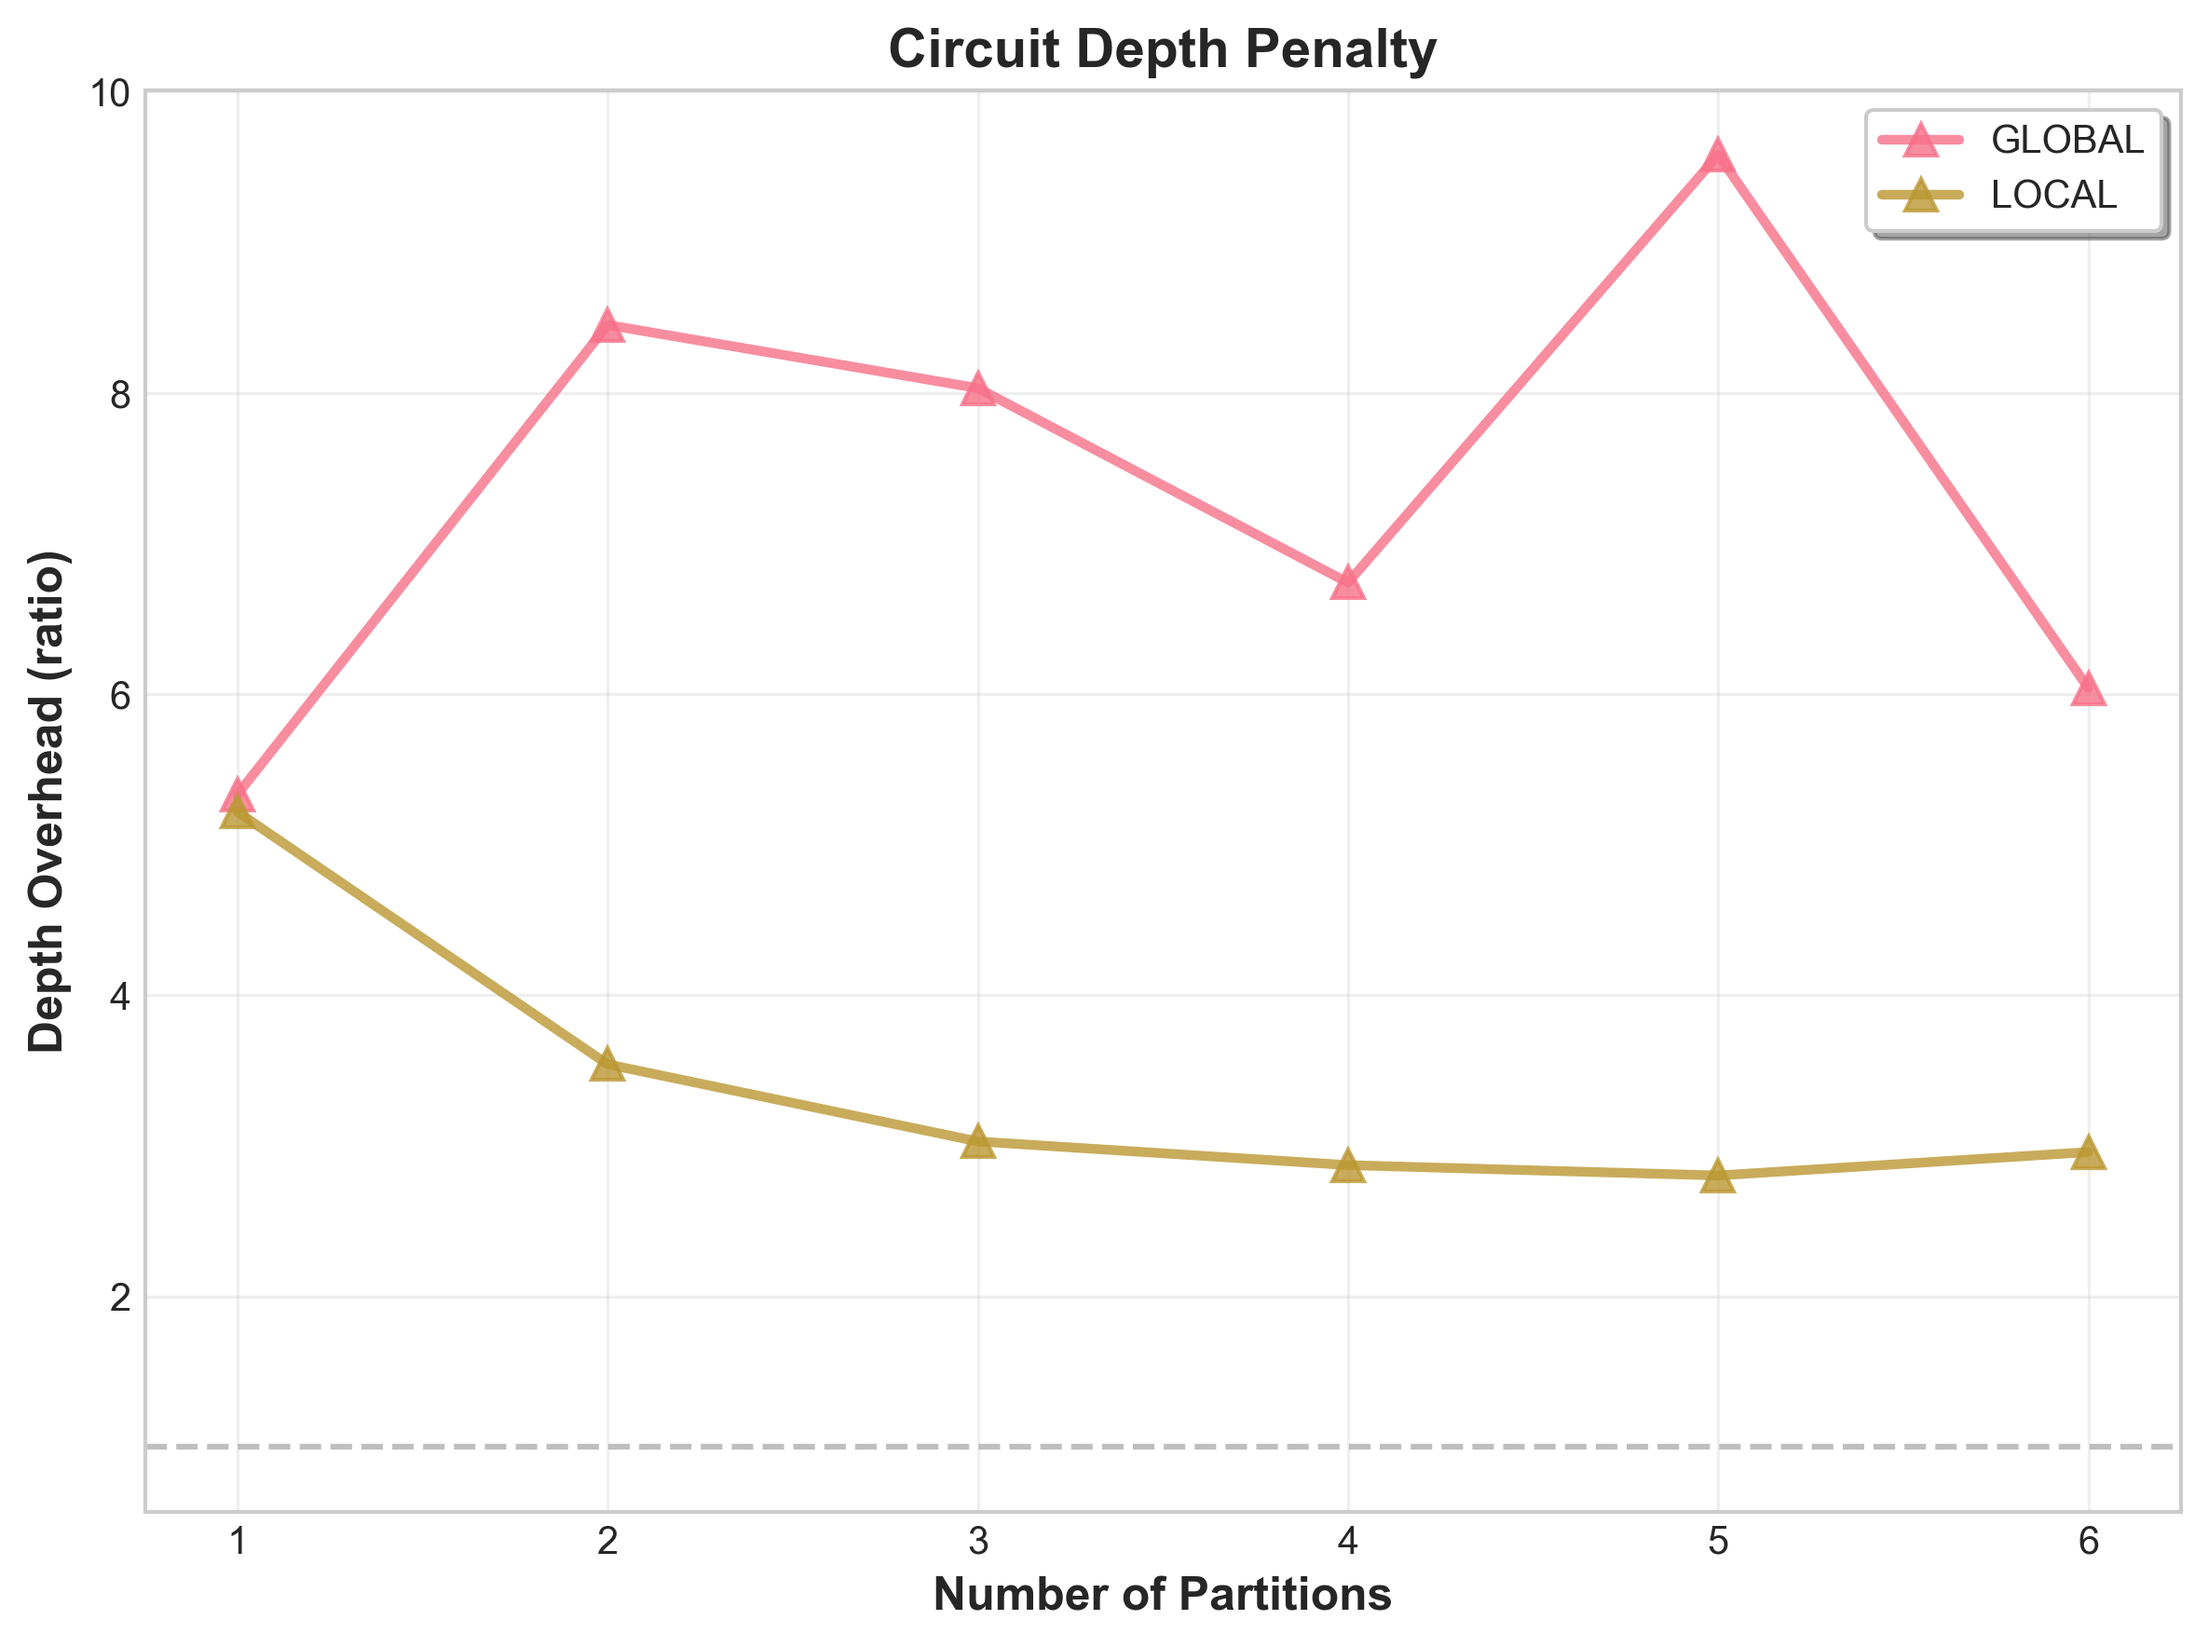
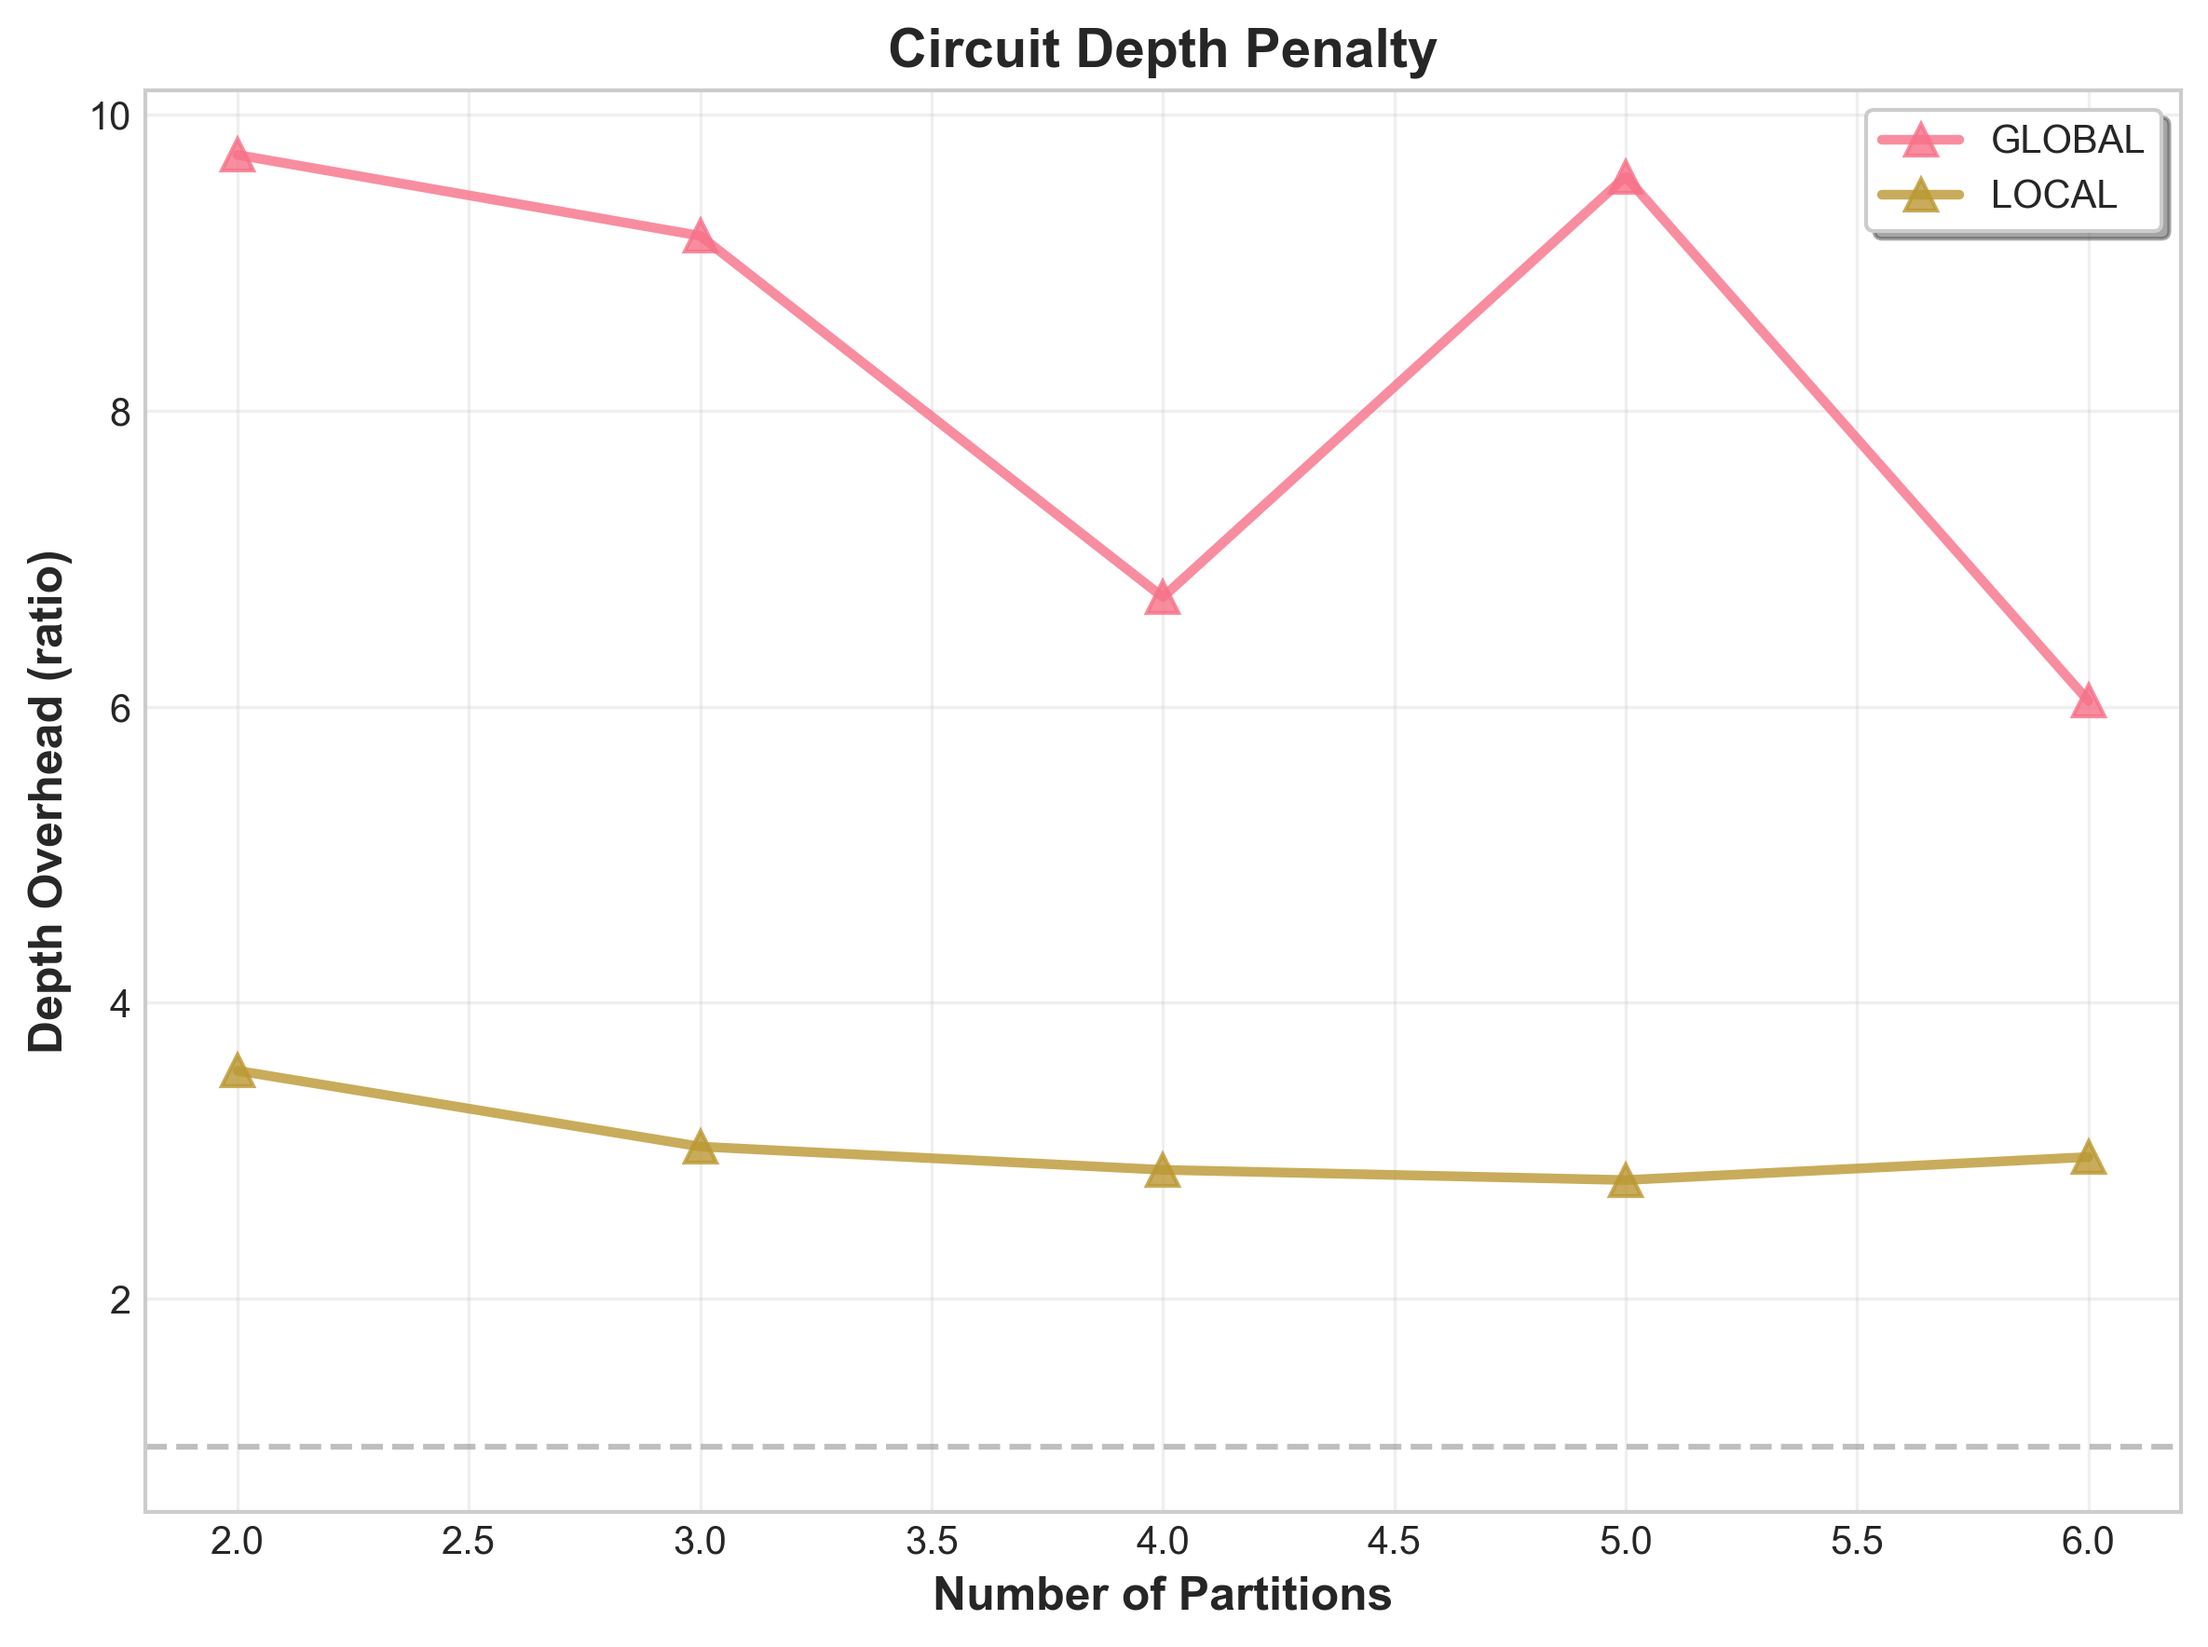
updated figs

diff --git a/new_files/analyze_results.py b/new_files/analyze_results.py
@@ -2,7 +2,13 @@
 ZNE Distributed Quantum Computing Analysis
 Analyzes results from main_reduced.ipynb experiments
 
-Usage: python quick_ploys.py ../results.csv
+IMPORTANT: This script filters out partition=1 data from main analysis.
+- Partition=1 means NO distribution (circuit runs as single unit)
+- All strategies should be identical at partition=1
+- Communication parameters have no effect at partition=1
+- See fig0_baseline_validation_partition1.png to verify partition=1 behavior
+
+Usage: python analyze_results.py ../results.csv
 """
 
 import pandas as pd
@@ -27,6 +33,43 @@ def print_section(title):
     print("\n" + "="*80)
     print(f"  {title}")
     print("="*80)
+
+def filter_distributed_data(df, keep_baseline=False):
+    """
+    Filter out partition=1 data (no distribution) from analysis.
+    
+    When partition=1, there is NO distribution - the circuit runs as a single unit.
+    This means all strategies (global/local/no-ZNE) should produce identical results,
+    and communication parameters (primitive, noise multiplier) have no effect.
+    
+    Args:
+        df: DataFrame with experimental results
+        keep_baseline: If True, return both filtered data and baseline separately
+    
+    Returns:
+        df_distributed: Data with partition > 1 (actual distributed execution)
+        df_baseline: Data with partition = 1 (optional, only if keep_baseline=True)
+    """
+    if 'num_partitions_tested' not in df.columns:
+        print("⚠ Warning: 'num_partitions_tested' column not found, skipping filter")
+        return (df, pd.DataFrame()) if keep_baseline else df
+    
+    partition_1_count = (df['num_partitions_tested'] == 1).sum()
+    total_count = len(df)
+    
+    if partition_1_count > 0:
+        print(f"\n--- Filtering Partition Data ---")
+        print(f"  Partition = 1 (no distribution): {partition_1_count} experiments ({partition_1_count/total_count*100:.1f}%)")
+        print(f"  Partition > 1 (distributed): {total_count - partition_1_count} experiments ({(total_count-partition_1_count)/total_count*100:.1f}%)")
+        print(f"  → Excluding partition=1 from main analysis (no distribution occurs)")
+        print(f"  → All strategies should be identical at partition=1")
+    
+    df_baseline = df[df['num_partitions_tested'] == 1].copy() if keep_baseline else pd.DataFrame()
+    df_distributed = df[df['num_partitions_tested'] > 1].copy()
+    
+    if keep_baseline:
+        return df_distributed, df_baseline
+    return df_distributed
 
 def load_and_clean_data(filepath):
     """Load and clean the experimental data"""
@@ -103,9 +146,93 @@ def load_and_clean_data(filepath):
         df['network_noise_injected'] = df['num_partitions_tested'] * df['communication_noise_multiplier']
     
     print(f"\n✓ Data cleaned and augmented")
-    print(f"  Final dataset: {len(df)} experiments")
+    print(f"  Dataset before partition filter: {len(df)} experiments")
+    
+    # Filter out partition=1 data (no distribution occurs)
+    df = filter_distributed_data(df, keep_baseline=False)
+    
+    print(f"  Final dataset: {len(df)} experiments (partition > 1 only)")
     
     return df
+
+def plot_baseline_validation(df_full, output_dir='figures'):
+    """
+    Create validation plot comparing partition=1 (baseline) vs partition>1.
+    This helps verify that partition=1 shows no strategy differences (as expected).
+    """
+    print_section("BASELINE VALIDATION (Partition=1 Check)")
+    
+    if 'num_partitions_tested' not in df_full.columns:
+        print("⚠ Skipping: 'num_partitions_tested' column not found")
+        return
+    
+    df_baseline = df_full[df_full['num_partitions_tested'] == 1].copy()
+    
+    if len(df_baseline) == 0:
+        print("⚠ No partition=1 data found, skipping baseline validation")
+        return
+    
+    Path(output_dir).mkdir(exist_ok=True)
+    
+    # Check if strategies differ at partition=1 (they shouldn't!)
+    print(f"\n--- Partition=1 Strategy Comparison ---")
+    if 'strategy' in df_baseline.columns:
+        baseline_stats = df_baseline.groupby('strategy')['error_reduction'].agg(['mean', 'std', 'count'])
+        print(baseline_stats)
+        
+        # Calculate variance between strategies
+        strategy_means = baseline_stats['mean'].values
+        if len(strategy_means) > 1:
+            variance = np.var(strategy_means)
+            print(f"\nVariance between strategies: {variance:.6f}")
+            if variance > 0.01:
+                print("⚠ WARNING: Strategies differ significantly at partition=1!")
+                print("   This suggests a bug - all strategies should be identical with no distribution.")
+            else:
+                print("✓ Good: Strategies are similar at partition=1 (as expected)")
+    
+    # Create comparison plot
+    fig, axes = plt.subplots(1, 2, figsize=(14, 6))
+    
+    # Left: Partition=1 by strategy
+    if 'strategy' in df_baseline.columns:
+        ax = axes[0]
+        strategies = sorted(df_baseline['strategy'].unique())
+        positions = np.arange(len(strategies))
+        
+        means = []
+        stds = []
+        for strategy in strategies:
+            data = df_baseline[df_baseline['strategy'] == strategy]['error_reduction']
+            means.append(data.mean())
+            stds.append(data.std())
+        
+        ax.bar(positions, means, yerr=stds, alpha=0.7, capsize=5)
+        ax.set_xticks(positions)
+        ax.set_xticklabels([s.upper() for s in strategies])
+        ax.set_ylabel('Error Reduction', fontsize=12, fontweight='bold')
+        ax.set_title('Partition=1: Strategy Comparison\n(Should be identical)', 
+                    fontsize=12, fontweight='bold')
+        ax.axhline(y=0, color='red', linestyle='--', alpha=0.5)
+        ax.grid(True, alpha=0.3, axis='y')
+    
+    # Right: Distribution of error reduction at partition=1
+    ax = axes[1]
+    ax.hist(df_baseline['error_reduction'], bins=20, alpha=0.7, edgecolor='black')
+    ax.axvline(df_baseline['error_reduction'].mean(), color='red', 
+              linestyle='--', linewidth=2, label=f"Mean: {df_baseline['error_reduction'].mean():.4f}")
+    ax.set_xlabel('Error Reduction', fontsize=12, fontweight='bold')
+    ax.set_ylabel('Frequency', fontsize=12, fontweight='bold')
+    ax.set_title('Partition=1: Error Reduction Distribution\n(No Distribution)', 
+                fontsize=12, fontweight='bold')
+    ax.legend()
+    ax.grid(True, alpha=0.3, axis='y')
+    
+    plt.tight_layout()
+    filepath = Path(output_dir) / 'fig0_baseline_validation_partition1.png'
+    plt.savefig(filepath, dpi=300, bbox_inches='tight')
+    print(f"\n✓ Saved: {filepath}")
+    plt.close()
 
 def plot_scalability(df, output_dir='figures'):
     """Create scalability analysis plots"""
@@ -467,8 +594,23 @@ def main():
     else:
         input_file = '../results.csv'
     
-    # Run analysis
+    # Load full dataset (including partition=1 for validation)
+    print_section("LOADING DATA")
+    try:
+        df_full = pd.read_csv(input_file)
+        print(f"✓ Loaded {len(df_full)} experiments from {input_file}")
+    except Exception as e:
+        print(f"✗ Error loading data: {e}")
+        print("\nUsage: python analyze_results.py [path_to_results.csv]")
+        sys.exit(1)
+    
+    # Create baseline validation plot (uses partition=1 data)
+    plot_baseline_validation(df_full)
+    
+    # Load and clean data (this filters out partition=1)
     df = load_and_clean_data(input_file)
+    
+    # Run main analysis on distributed data only (partition > 1)
     plot_scalability(df)
     statistical_analysis(df)
     
@@ -477,6 +619,8 @@ def main():
     for fig in sorted(Path('figures').glob('*.png')):
         print(f"  - {fig.name}")
     print("\n✓ All done!")
+    print("\nNote: Analysis excludes partition=1 data (no distribution occurs)")
+    print("      See fig0_baseline_validation_partition1.png for partition=1 check")
 
 if __name__ == "__main__":
     main()
